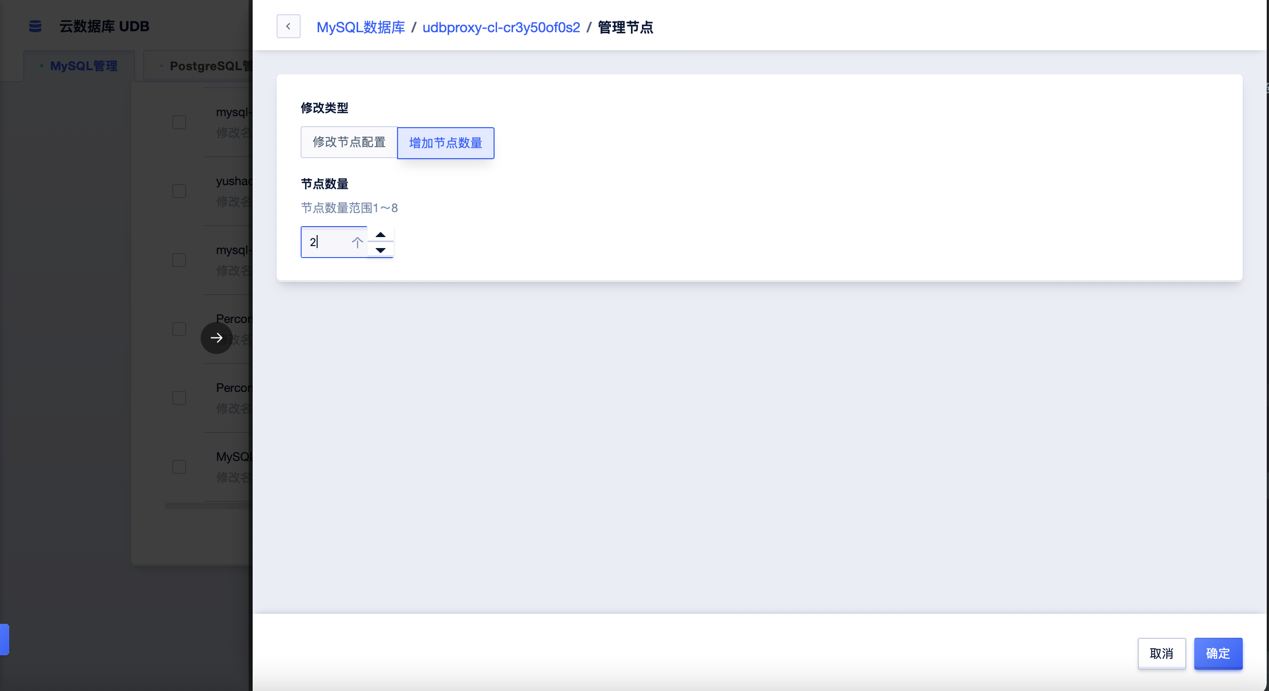
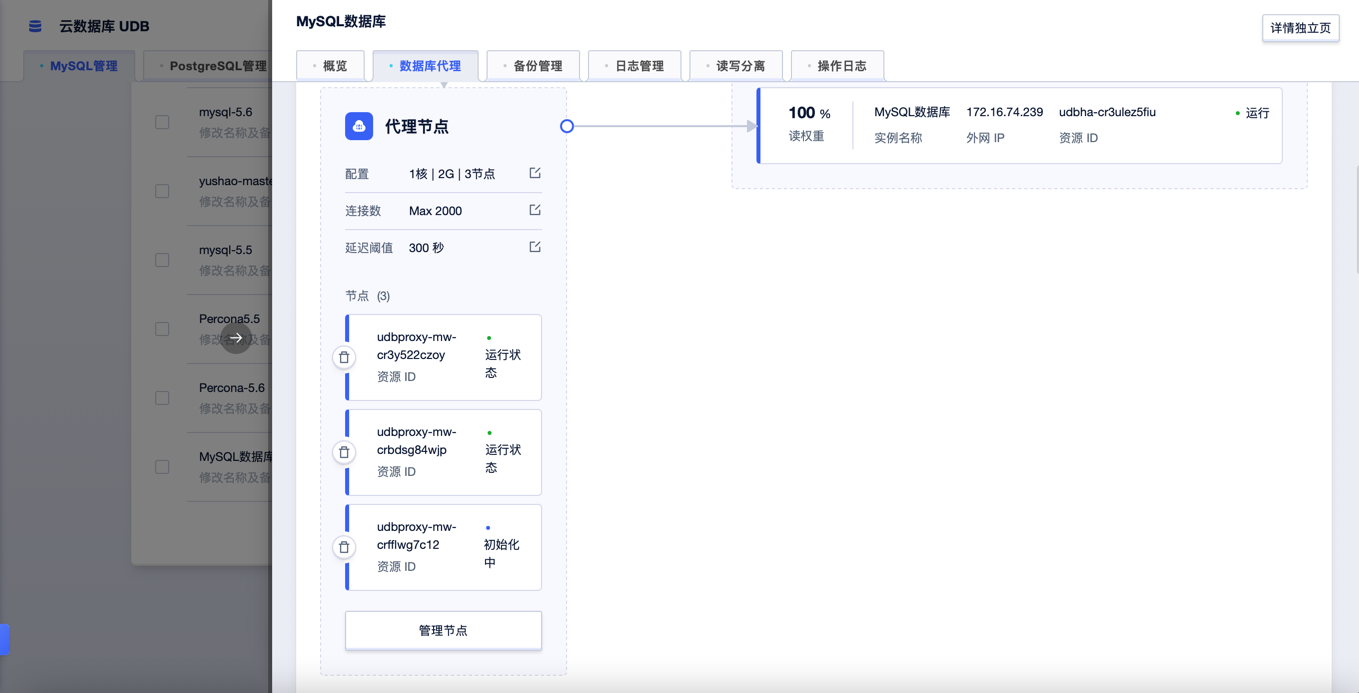
feat(node): 添加删除节点和代理节点说明

diff --git a/manage/proxy-node.md b/manage/proxy-node.md
@@ -13,32 +13,12 @@
 修改节点数量
 ![img.png](/images/proxy-node-3.png)
 
-点击确定后，代理状态和节点状态都处于升降级中，在升降级后代理状态会处于已关闭状态，需手动点击启动按钮。
-![img.png](/images/proxy-node-4.png)
+点击确定后，新增的节点处于初始化中，等待一段时间后，节点即转换成可用的运行状态。
+![img.png](/images/proxy-node-10.png)
 
 ## 缩容节点
 删除某个节点
 ![img.png](/images/proxy-node-8.png)
 
-点击确定删除后，代理节点进入删除中状态，等待一段时间后删除。
+点击确定删除后，代理节点进入删除中状态，等待一段时间后节点即被删除。
 ![img.png](/images/proxy-node-9.png)
-
-## 代理节点更新方案
-
-某些情况下，代理节点需要进行更新，可以采取扩缩容节点的方式对代理节点进行更新
-
-注： 针对长连接的情况，还是会断开连接，请在业务低峰期谨慎进行操作
-
-步骤：
-
-记录当前节点的id
-![img.png](/images/proxy-node-11.png)
-
-按照原始的节点数量，按照扩容节点的操作，扩充相同数量的节点
-![img.png](/images/proxy-node-10.png)
-
-等待节点处于运行状态
-![img.png](/images/proxy-node-12.png)
-
-删除原来记录的节点
-![img.png](/images/proxy-node-13.png)
